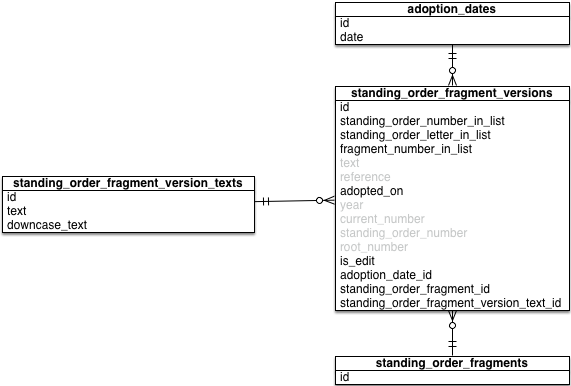
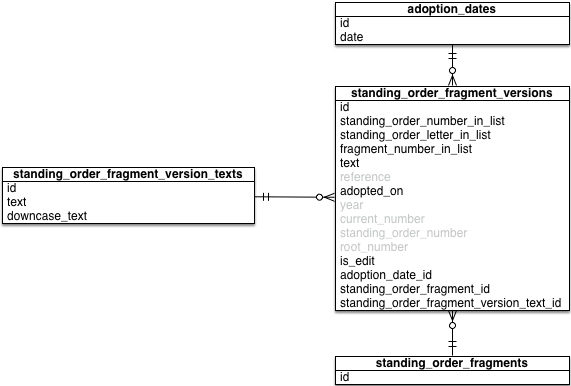
takes text from version table not text table to hopefully speed things up

Changed region(s): [[0.0, 0.4352, 0.4466, 0.6218], [0.4466, 0.4974, 0.5954, 0.5285], [0.5954, 0.4041, 0.6252, 0.4352]]

diff --git a/app/views/standing_order_fragment_version/_standing_order_fragment_version_from_fragment.html b/app/views/standing_order_fragment_version/_standing_order_fragment_version_from_fragment.html
@@ -1,5 +1,5 @@
 <tr>
 	<%= content_tag( 'td', link_to( standing_order_fragment_version_from_fragment.adoption_date.display_date, adoption_date_show_url( standing_order_fragment_version_from_fragment.adoption_date, :anchor => "fragment-#{standing_order_fragment_version_from_fragment.standing_order_fragment.id}" ) ), :class => 'date-cell' ) %>
 	<%= content_tag( 'td', 'Edit' ) %>
-	<%= content_tag( 'td', standing_order_fragment_version_from_fragment.standing_order_fragment_version_text.text ) %>
+	<%= content_tag( 'td', standing_order_fragment_version_from_fragment.text ) %>
 </tr>
